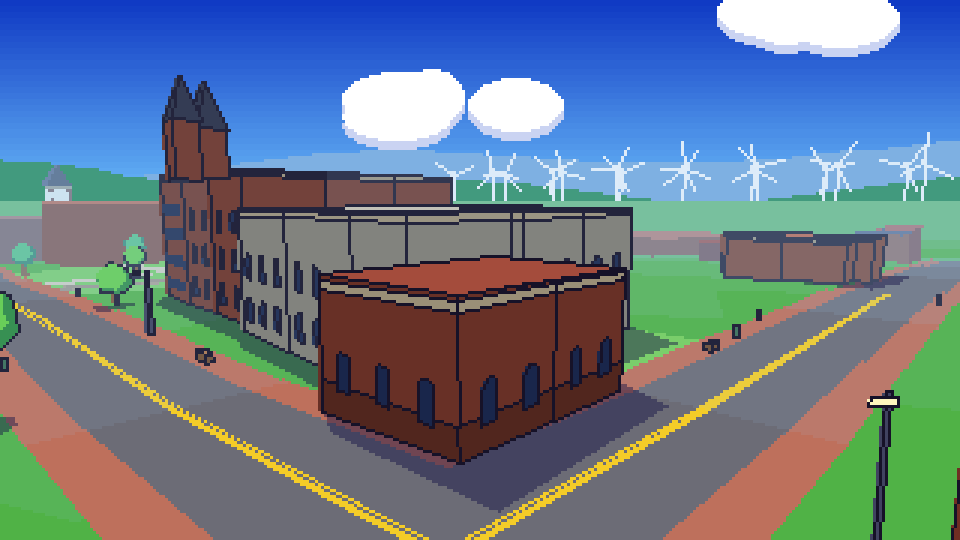
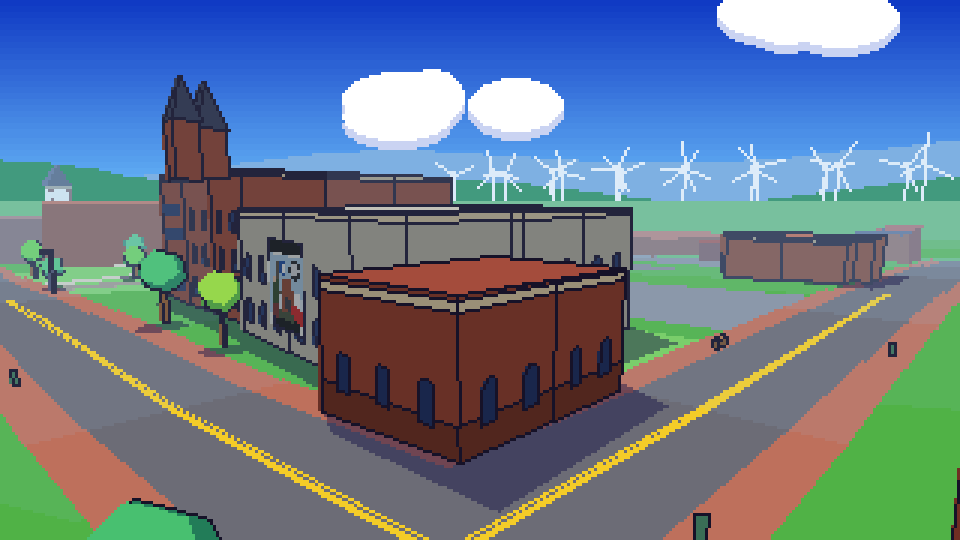
Release v0.3.0
Two player battle and VS race modes, the country roads east of town, the Pumping Station dam, the border lighthouse,
murals, open parking lots, lighter and smarter traffic. README pictures refreshed; your own balloons no longer block
your own view in battle.

diff --git a/game/battle.py b/game/battle.py
@@ -449,11 +449,13 @@ class Battle(TwoPlayer):
             sfx.play("win")
 
     # --- drawing -------------------------------------------------------------
-    def extras(self):
-        """Things the renderer draws in 3D for this battle: balloons, boxes, shots, slicks, orbiting pucks."""
+    def extras(self, viewer=None):
+        """Things the renderer draws in 3D for this battle: balloons, boxes, shots, slicks, orbiting pucks. A player's
+        own balloons are left out of their own view (they would hang between the camera and the car; the HUD counts
+        them), the rival sees them."""
         out = []
         for i, (car, r) in enumerate(zip(self.cars, self.racers)):
-            if self.mode == "balloon" and r.balloons > 0 and not (r.safe > 0.0 and int(self.time * 10) % 2):
+            if self.mode == "balloon" and r.balloons > 0 and i != viewer and not (r.safe > 0.0 and int(self.time * 10) % 2):
                 bx, by = car.forward
                 for k in range(r.balloons):
                     side = (k - (r.balloons - 1) / 2) * 0.9
@@ -483,8 +485,9 @@ class Battle(TwoPlayer):
         g = self.game
         s, r3d = g.screen, g.r3d
         trains = g.train.units()
-        extras, markers = self.extras(), self.markers()
+        markers = self.markers()
         for i, (x, y, w, h) in enumerate(self.rects):
+            extras = self.extras(viewer=i)
             sub = s.subsurface((x, y, w, h))
             r3d.set_viewport(w, h)
             others = list(g.town.cars) + [c for j, c in enumerate(self.cars) if j != i]

diff --git a/tools/readme_shots.py b/tools/readme_shots.py
@@ -90,6 +90,19 @@ def raised(i, bearing, back=55.0, up=28.0, t=12.0):
     return surf
 
 
+def look_at(tx, ty, bearing, back, up, look_z=4.5, t=12.0):
+    """Camera `back` metres from point (tx, ty) towards compass `bearing`, `up` metres high, looking at it."""
+    b = math.radians(bearing)
+    cx, cy = tx + math.sin(b) * back, ty - math.cos(b) * back
+    gz = WORLD.ground(tx, ty)
+    cam = types.SimpleNamespace(x=cx, y=cy, z=gz + up, yaw=math.atan2(ty - cy, tx - cx), pitch=math.atan2(up - look_z, back))
+    car = player_car(0, cx, cy, cam.yaw)
+    car.z = -100.0
+    surf = pygame.Surface((C.INTERNAL_W, C.INTERNAL_H))
+    renderer().render(surf, car, cam, t=t)
+    return surf
+
+
 def save(name, surf, scale=SCALE):
     path = os.path.join(OUT, name + ".png")
     pygame.image.save(pygame.transform.scale(surf, (surf.get_width() * scale, surf.get_height() * scale)), path)
@@ -182,6 +195,26 @@ def shot_weather():
 
 def shot_splitscreen():
     save("splitscreen", game_frame("--players", "4", "--autodrive"))
+
+
+def shot_battle():
+    save("battle", game_frame("--vs", "battle"))
+
+
+def shot_dam():
+    save("dam", look_at(4451.0, 1962.0, 262, 34, 3))
+
+
+def shot_lighthouse():
+    save("lighthouse", look_at(-3335.0, -3212.0, 30, 24, 3))
+
+
+def shot_murals():
+    save("murals", grid([look_at(414.9, -911.7, 118, 26, 3), look_at(400.4, -983.4, 25, 28, 3)], 2), scale=2)
+
+
+def shot_parking():
+    save("parking", look_at(1356.0, 1593.0, 200, 60, 16, look_z=0.0))
 
 
 def shot_top():

diff --git a/tests/test_battle.py b/tests/test_battle.py
@@ -163,6 +163,9 @@ class BattleTests(unittest.TestCase):
         self.b.draw()
         kinds = {e["kind"] for e in self.b.extras()}
         self.assertTrue({"balloon", "box"} <= kinds)
+        own = [e for e in self.b.extras(viewer=0) if e["kind"] == "balloon"]
+        self.assertEqual(len(own), 3)                                       # only the rival's three
+        self.assertTrue(all(e["colour"] == B.BALLOON_COLOURS[1] for e in own))
 
 
 class SprintTests(unittest.TestCase):

diff --git a/game/__init__.py b/game/__init__.py
@@ -1,3 +1,3 @@
 """Amherst Run. The version below is the single source of truth for releases (see README: Making a release)."""
 
-__version__ = "0.2.1"
+__version__ = "0.3.0"

diff --git a/README.md b/README.md
@@ -16,8 +16,13 @@ with on-screen touch controls.
 ### What is real
 - **Streets** from the Nova Scotia Road Network: real names, one-ways, overpasses on Highway 104, speed limits.
 - **Buildings, parks and landmarks** from OpenStreetMap: the red sandstone downtown, the Court House, Victoria Square
-  and its war memorial, the Dominion Building, churches, banks, the County Museum, the Welcome Centre lighthouse, and the
-  wind turbines on the marsh skyline.
+  and its war memorial, the Dominion Building, churches, banks, the County Museum, the border welcome lighthouse at
+  Highway 104 Exit 1, the Pumping Station dam, and the wind turbines on the marsh skyline.
+- **The country roads east of town**: the loop out Church St and Hastings Rd round to Highway 6, and on toward Warren
+  and Tyndal Road, with every rural home placed where the LiDAR survey shows its roof (OpenStreetMap maps few of them).
+- **Parking lots** from OpenStreetMap: the mall, Walmart, the Superstore and the high school lots are open pavement
+  with painted stalls, not a tangle of driveways.
+- **Downtown murals**: the North Nova Scotia Highlanders memorial and The Great Amherst Mystery, as simplified panels.
 - **Building heights and roof shapes** measured from a 2020 LiDAR survey: every house's real height, and whether
   its roof is flat, gabled (either way round) or hipped.
 - **Hills** from real elevation data: downtown sits on its ridge, the Tantramar marsh is flat at sea level.
@@ -42,6 +47,15 @@ with on-screen touch controls.
 | Police chases with a wanted level | 2, 3 or 4 player split screen |
 | ![Top-down view](docs/images/top.png) | ![Weather presets](docs/images/weather.png) |
 | Top-down view (V) | Clear, overcast, coastal fog / golden hour, snow, and the flat-shaded retro style |
+| ![Balloon battle](docs/images/battle.png) | ![The Pumping Station dam](docs/images/dam.png) |
+| Two player balloon battle: item boxes downtown, the rival's balloons, radar | The Pumping Station dam: spillway, gate works and fish ladder |
+| ![The border welcome lighthouse](docs/images/lighthouse.png) | ![The mall parking lot](docs/images/parking.png) |
+| The welcome lighthouse and sign at Highway 104 Exit 1 | Open parking lots with painted stalls (the mall) |
+
+![Downtown murals](docs/images/murals.png)
+
+The North Nova Scotia Highlanders memorial on the Town Hall and The Great Amherst Mystery on LaPlanche St (simplified
+panels of the real murals).
 
 ## How Amherst was built
 The town is assembled in layers, each from the best source available, and each layer can be refreshed with its own tool:
@@ -132,7 +146,7 @@ controls behave. On a desktop, `python -m game.main --touch` shows the same butt
 ## Start screen and multiplayer
 
 The game opens on a start screen: **1 Player** is the full game; **2, 3 or 4 Player** is split screen free roam with no
-police, no jobs and no damage. Use the arrows or W/S and Enter (or 1-4), a gamepad D-pad and A, or tap/click an option.
+police, no jobs and no damage; **Battle** and **VS Race** are two player modes with items (below). Use the arrows or W/S and Enter (or 1-4), a gamepad D-pad and A, or tap/click an option.
 ESC goes back to the start screen. `--players 2|3|4` jumps straight in; `--no-menu` jumps into 1 player.
 With 3 players, player 1 gets the whole top half and players 2 and 3 share the bottom.
 
@@ -146,6 +160,26 @@ With 3 players, player 1 gets the whole top half and players 2 and 3 share the b
 Pads go to the LAST players first: with two players and one pad the pad drives player 2 and the keyboard keeps player 1.
 On a pad A is handbrake, **LB or RB hop**, Start respawns. A freight train passes along the rail line every few minutes
 (`--no-train` turns it off). The vehicles are original low-poly designs with no badges.
+
+### Battle and VS race (2 players)
+
+**Battle** is a balloon battle downtown: three balloons each, trailing behind your car. Item boxes wait at junctions
+(back 8 s after you take one); a shot, a slick or a hard ram pops a balloon, and the last car with a balloon wins.
+**VS Race** starts you side by side somewhere in town and sends you both to a random landmark (Victoria Square, the
+Court House, the Dominion Building, the mall, the Pumping Station dam or the border lighthouse) under a tall beacon;
+the HUD shows the distance and an arrow, and items slow the other car down. `--vs battle` or `--vs sprint` skips the
+start screen. Tab splits the screen top/bottom (default) or left/right; Enter or Start after a win is a rematch.
+
+| | Drive | Hop and drift | Use item |
+|---|---|---|---|
+| Player 1 | W/A/S/D | Space | E or Left Shift |
+| Player 2 | Arrow keys | Right Shift or Enter | / or Right Ctrl |
+| Gamepad | Left stick or D-pad | A, LB or RB | X or B |
+
+Items (all original): **Puck** flies straight and bounces off buildings up to four times; **Seeker** homes on the
+other car; **Oil slick** drops behind you and spins out whoever drives over it; **Turbo can** is a two second burst
+(ram while it lasts to pop a balloon); **Ghost mode** makes you untouchable and faster for six seconds; **Triple puck**
+circles your car, blocks incoming shots and fires one at a time.
 
 ### Hop and drift boost (all modes)
 
@@ -199,7 +233,7 @@ every time). They are solid, so mind the trunks.
 ## Maps and landmarks
 The release includes a converted Amherst map (`data/amherst_map.json`) and the landmark list
 (`data/landmarks_amherst.json`): the Court House (with an optional clock tower), Victoria Square and its war memorial, the
-Dominion Building, banks, churches, the County Museum, the Welcome Centre lighthouse, the wind farms on the skyline and a
+Dominion Building, banks, churches, the County Museum, the border welcome lighthouse, the wind farms on the skyline and a
 red sandstone downtown. You start in a driveway on a residential street in the north-east of town; the start point and
 any hand-placed trees live in `data/map_edits.json` (see [docs/EDITOR.md](docs/EDITOR.md)). Press M in the game for the labelled town map. The round minimap (top right) shows the streets around you, the green sign
 at the bottom names the street you are on and the white "MAX" sign shows its limit. Highway 104 crosses Highway 2 (Exit 4)

diff --git a/CHANGELOG.md b/CHANGELOG.md
@@ -9,6 +9,9 @@ set `__version__` in `game/__init__.py` to `X.Y.Z`, and update the link referenc
 
 ## [Unreleased]
 
+## [0.3.0] - 2026-11-21
+Two player battle and VS race modes, the country roads east of town, and more of Amherst's real places.
+
 ### Added
 - Open parking lots: 73 surface lots from OpenStreetMap (`tools/fetch_parking.py` -> `data/parking.json`, 23.8 ha)
   are drawn as paved areas with painted stall lines up close and count as road to drive on; driveway roads that ran
@@ -236,7 +239,8 @@ First public release.
 - The sandstone-corner bank entry in the landmark file matched every bank; it now matches by name only.
 - Buildings no longer draw through one another or through cars: each wall piece is depth-sorted on its own.
 
-[Unreleased]: https://github.com/jeremylegere-wq/amherst-run/compare/v0.2.1...HEAD
+[Unreleased]: https://github.com/jeremylegere-wq/amherst-run/compare/v0.3.0...HEAD
+[0.3.0]: https://github.com/jeremylegere-wq/amherst-run/compare/v0.2.1...v0.3.0
 [0.2.1]: https://github.com/jeremylegere-wq/amherst-run/compare/v0.2.0...v0.2.1
 [0.2.0]: https://github.com/jeremylegere-wq/amherst-run/compare/v0.1.0...v0.2.0
 [0.1.0]: https://github.com/jeremylegere-wq/amherst-run/releases/tag/v0.1.0
